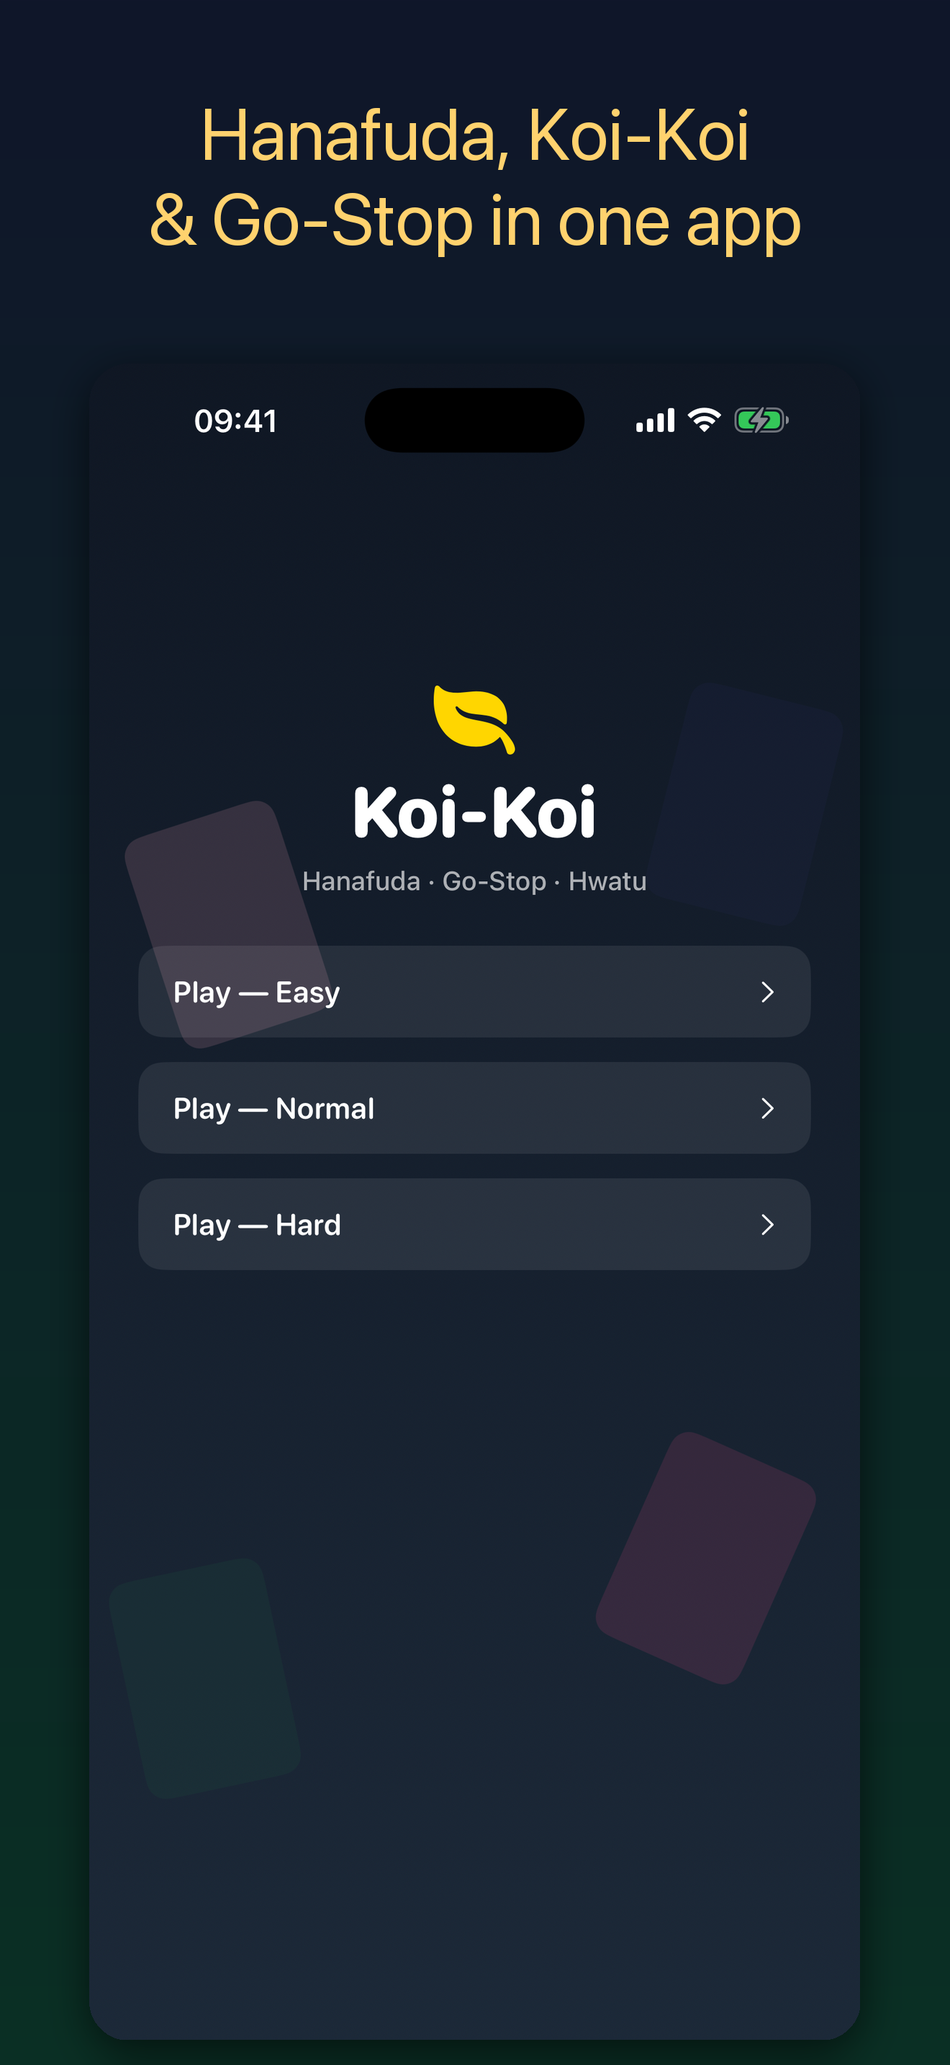
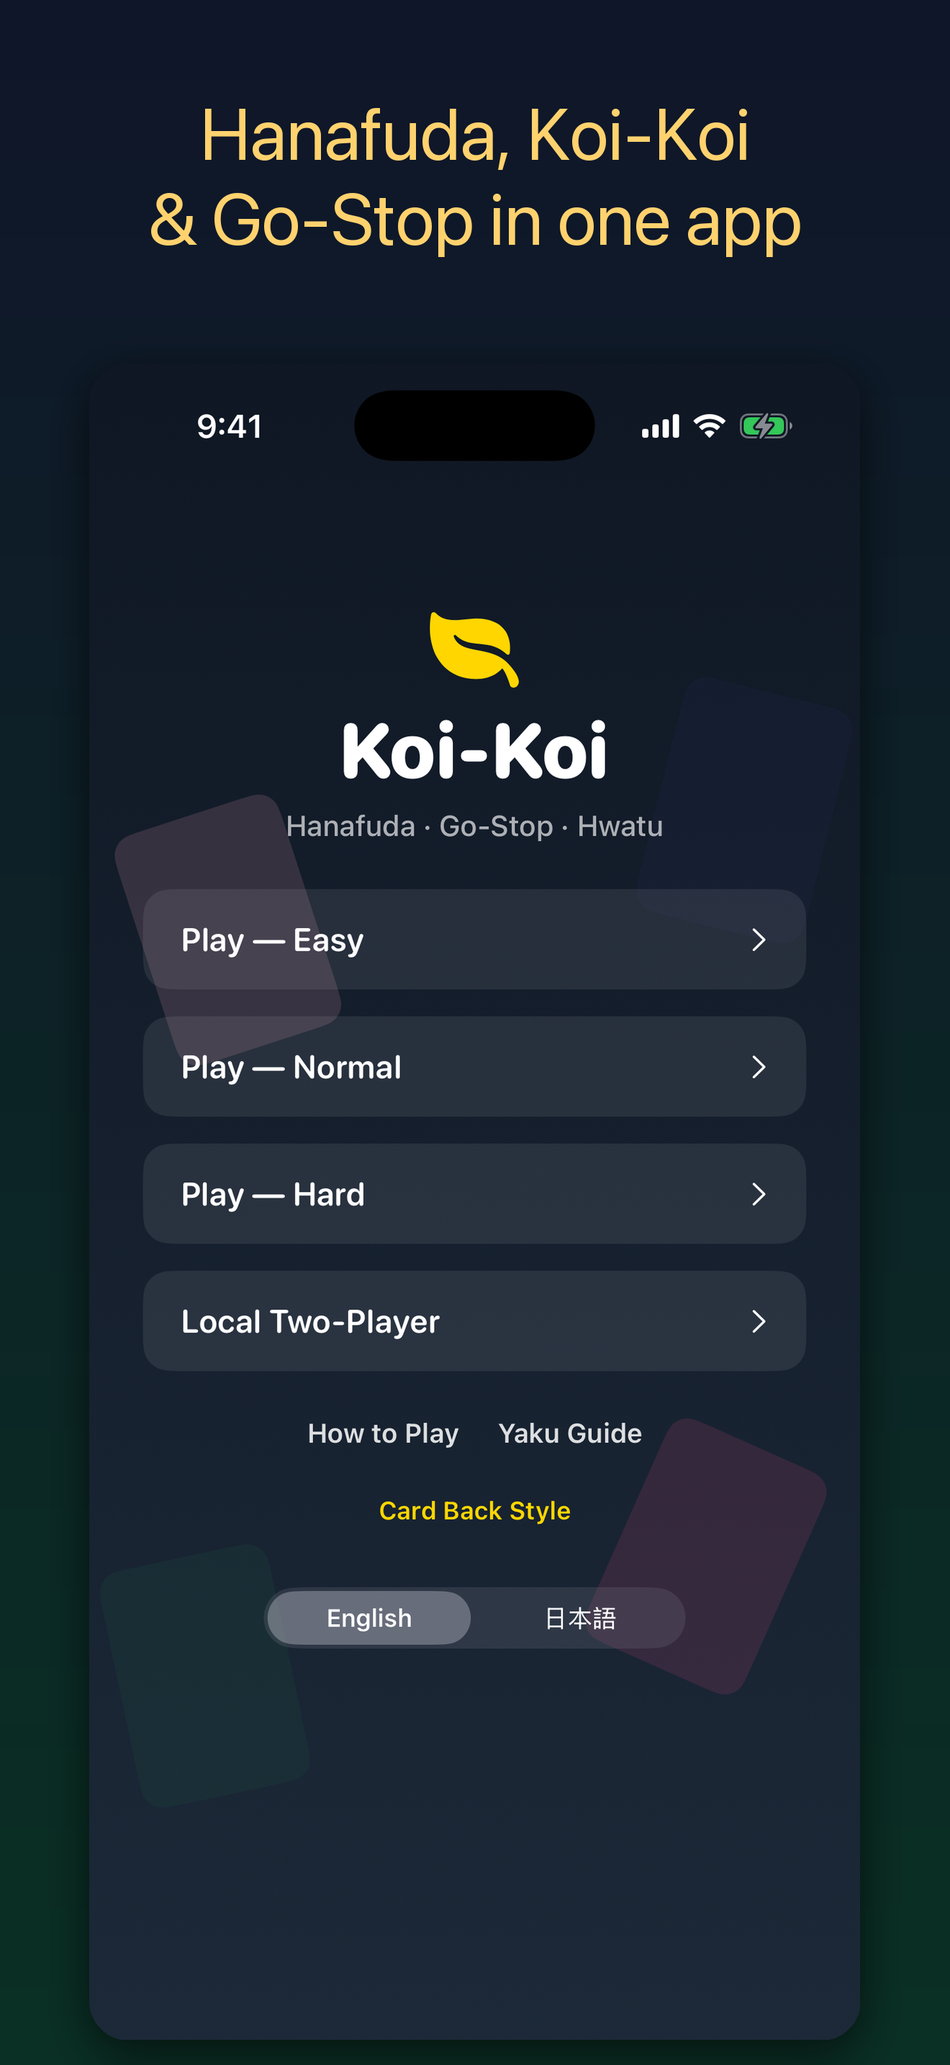
Polish pass: fix live language-switch bug, unreachable card-back settings, and recapture stale App Store screenshots
Second pre-resubmission verification pass (batch 7, resubmits 2026-09-06). Independently
re-verified all four 08-09 fixes with real interactive evidence (temporary XCUITest
harness, since no GUI automation is available in this environment) rather than trusting
prior code review:

- Local two-player: confirmed real turn alternation through actual taps (pass gate ->
  Player 1 move -> pass gate -> Player 2 move).
- Card backs: confirmed Sakura renders live on the opponent's hand in a real vsAI match,
  and free-tier gating is correct on a genuine Release build.
- Localization: found and fixed a real bug — the language picker bound directly to
  `$loc.language`, whose didSet never called setLanguage(), so bundle swap (and therefore
  the live UI) never actually happened until relaunch, despite persisting correctly.
  Fixed by moving the bundle swap into didSet itself.
- Scoring: re-verified the koi-koi doubling fix and full yaku table, no issues.

Also fixed a real UX gap: once Pro, there was no live path back into UpgradeView to
revisit the card-back picker (both Home entry points route straight into gameplay once
unlocked, and the teaser button was hidden). Home's Pro-settings button is now always
reachable.

Recaptured all screenshots (both locales) — the shipped set predated every 08-09 change
and showed none of it; ja captures are now genuine in-app Japanese UI via HK_LANG=ja
instead of an English-UI + translated-caption-band composite. Fixed three capture-script
[…]

diff --git a/HanafudaKoiKoi/Views/HomeView.swift b/HanafudaKoiKoi/Views/HomeView.swift
@@ -112,14 +112,17 @@ struct HomeView: View {
                             }
                         }
 
-                        if !purchases.isPro {
-                            Button { showUpgrade = true } label: {
-                                Text(L("home.upgradeTeaser"))
-                                    .font(.system(size: 13, weight: .semibold))
-                                    .foregroundStyle(.yellow)
-                                    .multilineTextAlignment(.center)
-                                    .padding(.horizontal, 30)
-                            }
+                        // Always reachable, Pro or not — this is the only live path to the
+                        // card-back picker once purchased, since the difficulty/two-player
+                        // buttons above route straight into gameplay for a Pro user instead
+                        // of opening this sheet. Without this, a paying customer would have
+                        // no way to revisit their card-back choice after the first purchase.
+                        Button { showUpgrade = true } label: {
+                            Text(purchases.isPro ? L("home.cardBackSettings") : L("home.upgradeTeaser"))
+                                .font(.system(size: 13, weight: .semibold))
+                                .foregroundStyle(.yellow)
+                                .multilineTextAlignment(.center)
+                                .padding(.horizontal, 30)
                         }
 
                         Picker("", selection: $loc.language) {

diff --git a/HanafudaKoiKoi/Core/Localization.swift b/HanafudaKoiKoi/Core/Localization.swift
@@ -13,8 +13,18 @@ enum AppLanguage: String, CaseIterable, Identifiable {
 final class LocalizationManager: ObservableObject {
     static let shared = LocalizationManager()
 
+    // NOTE: didSet must swap `bundle` too, not just persist the raw value — this is the
+    // only observer that runs when the Home segmented Picker's `$language` binding sets
+    // this property directly (which bypasses `setLanguage(_:)` below). Before this fix,
+    // the picker toggled and persisted correctly but `string(_:)` kept resolving against
+    // the stale bundle, so the UI never actually re-rendered in the new language until
+    // the app was relaunched — found via a live mid-session XCUITest switch during the
+    // 2026-08-12 polish pass (cold-launch-only HK_LANG verification never caught this).
     @Published var language: AppLanguage {
-        didSet { UserDefaults.standard.set(language.rawValue, forKey: "app_language") }
+        didSet {
+            UserDefaults.standard.set(language.rawValue, forKey: "app_language")
+            bundle = Self.bundle(for: language)
+        }
     }
 
     private var bundle: Bundle = .main

diff --git a/HanafudaKoiKoi/Core/GameModel.swift b/HanafudaKoiKoi/Core/GameModel.swift
@@ -343,12 +343,13 @@ final class GameModel: ObservableObject {
 // MARK: - Screenshot capture helpers (DEBUG only; launch args never set in production)
 extension GameModel {
 
-    /// Entry point. name: table | yaku | matchover
+    /// Entry point. name: table | yaku | matchover | twoplayer
     func captureSetup(_ name: String) {
         difficulty = .normal
         playerMatchScore = 4
         aiMatchScore = 2
         handNumber = 2
+        mode = name == "twoplayer" ? .twoPlayer : .vsAI
 
         var shuffled = HanafudaDeck.fullDeck.shuffled()
         playerHand = Array(shuffled.prefix(6)); shuffled.removeFirst(6)
@@ -363,7 +364,7 @@ extension GameModel {
 
         currentTurn = .player
         lastCaptured = Array(playerCaptured.suffix(2))
-        message = L("game.yourMove")
+        message = currentTurnMovePrompt()
 
         switch name {
         case "yaku":

diff --git a/capture_shots.py b/capture_shots.py
@@ -7,7 +7,7 @@ import os, re, subprocess, time
 from pathlib import Path
 from PIL import Image, ImageDraw, ImageFont, ImageFilter
 
-APP_DIR = Path("/Users/user/HanafudaKoiKoi")
+APP_DIR = Path(__file__).resolve().parent
 PROJECT = APP_DIR / "HanafudaKoiKoi.xcodeproj"
 SCHEME = "HanafudaKoiKoi"
 BUNDLE = "com.quyenngo.hanafudakoikoi"
@@ -18,22 +18,42 @@ BAND = 470
 SHOTS = [
     ("01-home",      "home",      "Hanafuda, Koi-Koi\n& Go-Stop in one app"),
     ("02-table",     "table",     "The real 48-card deck —\nmonths, brights & ribbons"),
-    ("03-yaku",      "yaku",      "Score real yaku combos —\nThree Brights, Boar-Deer-Butterfly"),
-    ("04-matchover", "matchover", "Play vs AI —\nEasy, Normal or Hard"),
+    ("03-twoplayer", "twoplayer", "Pass & play —\nlocal two-player, one device"),
+    ("04-cardbacks", "upgrade",   "Choose your card back —\nInk Leaf or Sakura"),
+    ("05-yaku",      "yaku",      "Score real yaku combos —\nThree Brights, Boar-Deer-Butterfly"),
+    ("06-matchover", "matchover", "Play vs AI —\nEasy, Normal or Hard"),
 ]
 
 
 def sh(*a, **k): return subprocess.run(a, check=True, capture_output=True, text=True, **k)
 
 
+CAPTURE_DEVICE_NAME = "HanafudaKoiKoi-Capture"
+
+
 def find_device():
+    # Dedicated, app-named simulator — NOT a shared "any Pro Max" match. This batch runs
+    # several sibling apps' capture scripts concurrently on the same Mac; matching any
+    # available Pro Max device risks grabbing a simulator another app's script is using
+    # mid-capture (confirmed cross-app UI contamination in this session for other apps).
     out = subprocess.run(["xcrun", "simctl", "list", "devices", "available"],
                          capture_output=True, text=True).stdout
     for line in out.splitlines():
-        m = re.search(r"^\s*(iPhone .*Pro Max)\s+\(([0-9A-F\-]{36})\)", line)
+        m = re.search(rf"^\s*{re.escape(CAPTURE_DEVICE_NAME)}\s+\(([0-9A-F\-]{{36}})\)", line)
         if m:
-            return m.group(2), m.group(1)
-    raise SystemExit("No available 'iPhone ... Pro Max' simulator found")
+            return m.group(1), CAPTURE_DEVICE_NAME
+    # Not created yet — create it against whatever Pro Max device type + latest iOS
+    # runtime this Mac has, then reuse it on every future run.
+    types = subprocess.run(["xcrun", "simctl", "list", "devicetypes"], capture_output=True, text=True).stdout
+    type_m = re.search(r"iPhone \S+ Pro Max \((com\.apple\.CoreSimulator\.SimDeviceType\.[^\)]+)\)", types)
+    if not type_m:
+        type_m = re.search(r"iPhone \S+ Pro \((com\.apple\.CoreSimulator\.SimDeviceType\.[^\)]+)\)", types)
+    runtimes = subprocess.run(["xcrun", "simctl", "list", "runtimes"], capture_output=True, text=True).stdout
+    runtime_m = re.search(r"(com\.apple\.CoreSimulator\.SimRuntime\.iOS-[0-9\-]+)", runtimes)
+    if not (type_m and runtime_m):
+        raise SystemExit("Could not find a Pro/Pro Max device type + iOS runtime to create the capture simulator")
+    udid = sh("xcrun", "simctl", "create", CAPTURE_DEVICE_NAME, type_m.group(1), runtime_m.group(1)).stdout.strip()
+    return udid, CAPTURE_DEVICE_NAME
 
 
 def build_app():
@@ -110,7 +130,9 @@ def main():
     for shotname, cap, headline in SHOTS:
         subprocess.run(["xcrun", "simctl", "terminate", DEVICE, BUNDLE], capture_output=True)
         subprocess.run(["xcrun", "simctl", "launch", DEVICE, BUNDLE],
-                       env=dict(os.environ, SIMCTL_CHILD_HK_CAPTURE=cap), capture_output=True)
+                       env=dict(os.environ, SIMCTL_CHILD_HK_CAPTURE=cap, SIMCTL_CHILD_HK_SKIP_ONBOARDING="1",
+                                SIMCTL_CHILD_HK_LANG="en"),
+                       capture_output=True)
         time.sleep(2)
         sh("xcrun", "simctl", "io", DEVICE, "screenshot", str(raw))
         compose(raw, headline, OUT / f"{shotname}.png")

diff --git a/capture_shots_ja.py b/capture_shots_ja.py
@@ -1,7 +1,8 @@
 #!/usr/bin/env python3
-"""Japanese-caption App Store screenshots for the ja locale — same real in-app UI
-captures as capture_shots.py (English UI, since in-app strings aren't localized yet),
-with a native-Japanese caption band instead of a translated-in-place one.
+"""Japanese-locale App Store screenshots. Real in-app UI captures with HK_LANG=ja
+forcing the actual Japanese localization bundle (added 2026-08-09 — this used to run
+the English UI with only a translated caption band, which was stale/misleading once
+the app became genuinely bilingual), composited with a native-Japanese caption band.
 Output: screenshots/final_ja/*.png"""
 import sys
 from pathlib import Path
@@ -22,8 +23,10 @@ OUT.mkdir(parents=True, exist_ok=True)
 SHOTS = [
     ("01-home",      "home",      "花札・こいこい\nごーすとっぷが一つに"),
     ("02-table",     "table",     "本格48枚の花札 —\n月・光・短冊で勝負"),
-    ("03-yaku",      "yaku",      "本物の役を獲得 —\n三光、猪鹿蝶"),
-    ("04-matchover", "matchover", "AI対戦 —\nかんたん・ふつう・むずかしい"),
+    ("03-twoplayer", "twoplayer", "友達と2人対戦 —\n1台の端末でパス&プレイ"),
+    ("04-cardbacks", "upgrade",   "カード裏面を選べる —\n墨葉 or 桜"),
+    ("05-yaku",      "yaku",      "本物の役を獲得 —\n三光、猪鹿蝶"),
+    ("06-matchover", "matchover", "AI対戦 —\nかんたん・ふつう・むずかしい"),
 ]
 
 
@@ -46,7 +49,9 @@ def main():
     for shotname, cap, headline in SHOTS:
         subprocess.run(["xcrun", "simctl", "terminate", DEVICE, BUNDLE], capture_output=True)
         subprocess.run(["xcrun", "simctl", "launch", DEVICE, BUNDLE],
-                       env={"SIMCTL_CHILD_HK_CAPTURE": cap} | dict(__import__("os").environ),
+                       env={"SIMCTL_CHILD_HK_CAPTURE": cap, "SIMCTL_CHILD_HK_LANG": "ja",
+                            "SIMCTL_CHILD_HK_SKIP_ONBOARDING": "1"}
+                            | dict(__import__("os").environ),
                        capture_output=True)
         time.sleep(2)
         sh("xcrun", "simctl", "io", DEVICE, "screenshot", str(raw))

diff --git a/CLAUDE.md b/CLAUDE.md
@@ -267,6 +267,137 @@ WAITING_FOR_REVIEW. **Do not touch App Store Connect or resubmit before 2026-08-
   - Card-back designs are palette-only (no new art/texture) — fine for now, same
     "revisit if conversion data justifies it" note as sibling apps.
 
+## Polish pass (2026-08-12)
+
+Second, deeper pre-resubmission pass (batch 7, resubmits 2026-09-06) — this app carried the
+highest risk in the whole 18-app wave since the 08-09 pass had found and fixed **sold-but-
+never-built Pro features** (real purchasers may have paid for a 2-player mode and card backs
+that didn't exist). Job this pass was to independently re-verify, with real interactive
+evidence, that all four 08-09 fixes are genuinely solid — not just re-read the code.
+
+**Verification method:** no idb/XCUITest tooling and no working GUI automation were available
+in this environment (`osascript`/System Events hit an AppleEvent timeout — Accessibility
+permission isn't granted here; `screencapture` also returned a black frame — Screen Recording
+isn't granted either). Built a temporary XCUITest UI-test target instead (removed after use,
+not committed) to drive real taps into the Simulator and capture screenshots as evidence —
+this is the only way to get genuine tap-through verification, not just code review, in this
+environment.
+
+**(a) Local two-player pass-and-play — CONFIRMED GENUINELY WORKING.** Ran a real 2P match via
+XCUITest: tapped "Local Two-Player" on Home, hit the "Pass the device to Player 1" gate, tapped
+"I'm ready", played a real card as Player 1, confirmed the turn correctly flipped — a *second*
+pass gate appeared ("Pass the device to Player 2"), and Player 2's hand became the active
+face-up/tappable hand while Player 1's flipped face-down. This is real `GameModel.currentTurn`
+alternation exercised through actual taps, not a static demo screen.
+
+**(b) Alternate card backs — CONFIRMED GENUINELY WORKING, but found and fixed one real gap.**
+As Pro, selected Sakura in the picker, started a live vsAI match, and confirmed the opponent's
+face-down hand rendered the Sakura gradient/icon in the real game table (not just the picker
+swatch). As free user (fresh Release build — DEBUG always forces `isPro=true`, so this had to
+be a genuine Release-config install to test honestly), confirmed Play—Hard and Local Two-Player
+both show lock icons and gate to the paywall. **Real bug found:** once `isPro` was true, there
+was **no live path back into `UpgradeView`** — both Home entry points that used to open it
+(`Hard AI`, `Local Two-Player`) route straight into gameplay once Pro, and the "Unlock Pro"
+teaser button was wrapped in `if !purchases.isPro`. A paying customer could pick a card back
+once, right after purchasing, but could never revisit the picker again after dismissing that
+sheet. **Fixed:** `HomeView`'s teaser button is now always shown, unconditionally opening
+`UpgradeView`, with its label swapping to "Card Back Style" once Pro (`home.cardBackSettings`,
+added to both `.lproj` files).
+
+**(c) Localization — found and fixed a real, serious bug: live language switch was broken.**
+Diffed `en.lproj`/`ja.lproj` key sets — still identical (164 keys each after this pass's
+addition). But a live, mid-session XCUITest language switch (tap the 日本語 segment, no
+relaunch) proved the UI **did not re-render** — waited 6s, screenshotted every second, still
+showed English text, even though the segmented control's selection visibly toggled. Root
+cause: `LocalizationManager.language`'s `didSet` only persisted the raw value to
+`UserDefaults` — it never called `setLanguage(_:)`, the only method that swaps the internal
+`bundle` used by `string(_:)`. The Home segmented Picker binds directly to `$loc.language`,
+bypassing `setLanguage(_:)` entirely, so the picker toggled and persisted correctly (which is
+why a *cold relaunch* showed the right language — the only verification the 08-09 pass had
+done) but never actually re-rendered live. Same bug class already found in Ô Ăn
+Quan/Tử Vi/Dara this session, just not yet caught here. **Fixed:** moved the bundle-swap into
+`language`'s own `didSet`, so every mutation path stays consistent. Re-ran the same live-switch
+test after the fix — Japanese text now renders within ~1 second of tapping, confirmed via
+screenshot, no tofu boxes/mojibake.
+
+**(d) Scoring — re-verified correct, no issues found.** Re-read `YakuScorer.swift` against the
+documented point table in this file's Key Decisions — brights/animals/ribbons/chaff/moon-
+viewing/flower-viewing all match, including the 3-bright rain-man exclusion and 4-bright
+Shikou/Ame-Shikou split. Re-read `GameModel.settleHand()`'s koi-koi doubling fix — correctly
+sums `koiKoiCalls[.player] + koiKoiCalls[.ai]` (both seats, not just the winner) and doubles by
+`2^calls`, matching the standard rule and the 08-09 fix description. No regression.
+
+**⚠ Standing concern, not resolved this pass (out of scope per the task):** real Pro
+purchasers before the 08-09 fix may have paid for a 2-player mode and card backs that didn't
+exist yet. That business/refund question has not been raised with the user as of this pass —
+flagging again here since it's the one open item this polish pass could not close.
+
+**Screenshots — found and fixed real staleness.** The shipped screenshots (both locales) dated
+from 2026-07-26, before *any* of the 08-09 work — no Local Two-Player button, no Card Back
+Style/Yaku Guide links, no language picker, and obviously no 2P or card-back screens. Also
+found the `ja` set was never real Japanese UI to begin with — `capture_shots_ja.py` only
+overlaid a translated caption band on the *English* in-app UI, stale since the app became
+genuinely bilingual. Recaptured both locales for real on a dedicated `HanafudaKoiKoi-Capture`
+simulator (this batch runs 3 apps' capture scripts concurrently — a shared/default simulator
+risks cross-app contamination): 6 screenshots per locale now (was 4), adding a real pass-and-
+play screen and a real card-back-picker screen, ja captured with `HK_LANG=ja` for genuine
+Japanese in-app UI. Also fixed three capture-script bugs found along the way:
+`capture_shots.py`/`_ja.py` hardcoded `APP_DIR`/`REPO` to `/Users/user/HanafudaKoiKoi`, a path
+that doesn't exist on this machine; the "home" capture scenario had no `HK_SKIP_ONBOARDING`
+override, so on a fresh simulator it captured onboarding instead of Home; and `capture_shots.py`
+never set `HK_LANG=en`, so a simulator that had previously been switched to Japanese (e.g. by
+this pass's own UI-test run) leaked into the "English" screenshot set.
+
+**ASO — description never mentioned the two real Pro features.** Pulled the live listing: the
+copy was well-written (hand-authored Japanese, not machine-translated, consistent with house
+style) but the *description* body never mentioned local two-player or card back customization
+anywhere — only `whatsNew` did. Extended both locales' descriptions with a new "bring a friend"
+section, added both features to the "play your way" bullets, and wrote new `promotionalText`
+leading with them (was empty in both locales before this pass). Refreshed keywords: dropped
+"solitaire" (en) / "一人プレイ" (ja) — both inaccurate now that real 2-player exists — for
+"two player"/"pass n play" (en) and "2人対戦"/"パス&プレイ" (ja). Wrote fresh `whatsNew` for
+both locales describing the scoring fix, the two delivered Pro features, full bilingual
+localization, and the new Yaku Guide.
+
+**Push-script bugs found and fixed** (`~/asc-tools/asc_push_hanafudakoikoi.py` +
+`asc_push_hanafudakoikoi_screenshots.py` + `asc_push_hanafudakoikoi_review.py`):
+- `find_app_info` (in both the metadata and review-info push scripts) keyed off
+  `ai["attributes"]["state"]` instead of `appStoreState`. Confirmed live via the API that these
+  are two different fields on the same appInfo resource — the live (READY_FOR_SALE) appInfo's
+  `state` was `"READY_FOR_DISTRIBUTION"`, which was *in* the old "editable" tuple, so the old
+  code would have silently patched the **live listing** instead of the actual REJECTED/editable
+  one. Fixed to use `appStoreState` in both scripts (matches the Janggi bug from this session).
+- `find_or_create_version` hardcoded `versionString: "1.0.0"` (now the live version) and forced
+  `releaseType: "MANUAL"`. Fixed to target a `TARGET_VERSION` constant kept in sync with
+  `project.yml` (now `1.1.1`) and the house-standard `releaseType: AFTER_APPROVAL`.
+- `set_iap_localization` had no error handling — the Pro IAP is currently `IN_REVIEW` (locked),
+  so pushing its localization 409s (`NAME`/`DESCRIPTION` unmodifiable in that state). Wrapped in
+  try/except so this doesn't crash the whole push; confirmed the rest of the run (app-info +
+  version metadata) completed successfully despite the IAP calls failing as expected.
+- `asc_push_hanafudakoikoi_screenshots.py`'s `REPO` and both `asc_upload_hanafudakoikoi_*.py`
+  scripts' `FILE_PATH` were hardcoded to `/Users/user/HanafudaKoiKoi` (nonexistent on this
+  machine); fixed to resolve relative to `Path.home()`. The screenshot script's `ORDER` list
+  also still referenced the old 4-file set (`03-yaku.png`/`04-matchover.png`) — updated to the
+  new 6-file set.
+
+**Pushed to App Store Connect, confirmed landed on the correct editable version.** Re-read the
+listing after every push: `v1.0.1` was correctly found as the editable/REJECTED version, bumped
+to **v1.1.1** (`releaseType=AFTER_APPROVAL`), en-US + ja metadata (name/subtitle/keywords/
+description/promo/whatsNew) all landed there — `v1.0.0` (READY_FOR_SALE, live) was untouched.
+All 12 screenshots (6 EN + 6 JA) uploaded and reordered correctly. IAP localization push
+correctly no-op'd (locked, `IN_REVIEW`) — copy there was already accurate, nothing lost.
+
+**Version bump:** `MARKETING_VERSION` 1.1.0 → **1.1.1**, `CURRENT_PROJECT_VERSION` 5 → **6**
+(`project.yml`, both the `settings.base` and `targets.HanafudaKoiKoi.settings.base` blocks).
+
+**Build:** `xcodegen generate` + Debug **and** Release builds for iOS Simulator, both clean, 0
+warnings (besides the routine AppIntents notice) — verified after every code change this pass,
+including after removing the temporary UI-test target.
+
+**No ASC submit/review-submission action taken** — metadata + screenshot pushes only, per the
+standing 2026-08-18+ staggered-resubmission plan. This app resubmits 2026-09-06 (batch 7, with
+Ô Ăn Quan and Mythsmith).
+
 ## Instructions for Claude Code
 At the end of every session, update the Current State section to reflect progress made.
 
